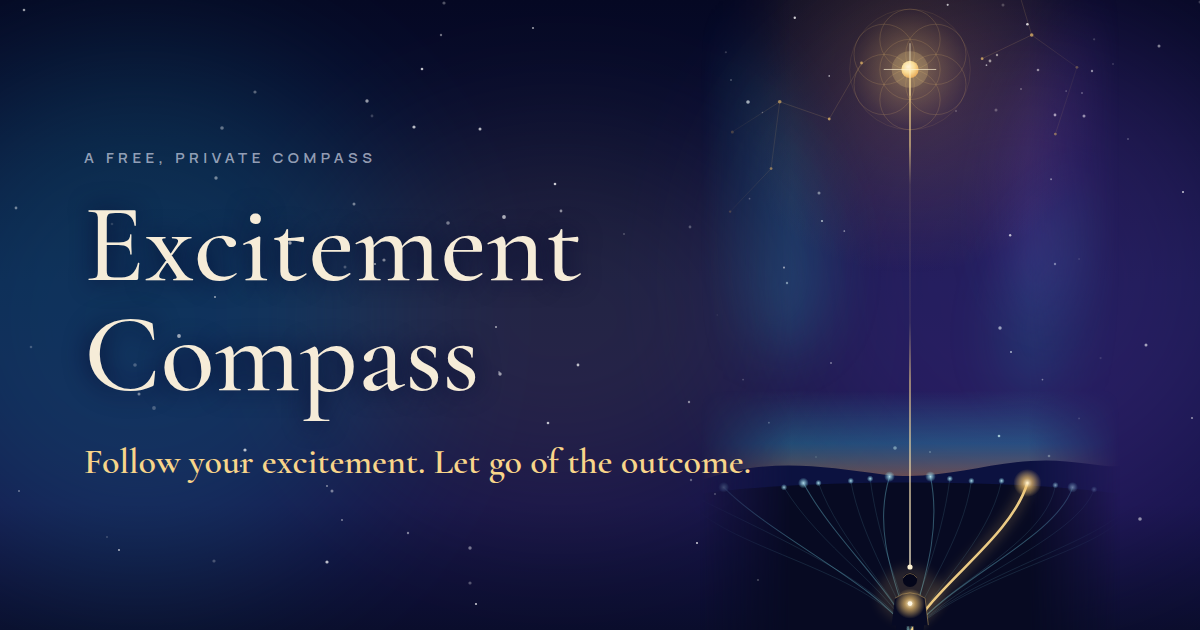
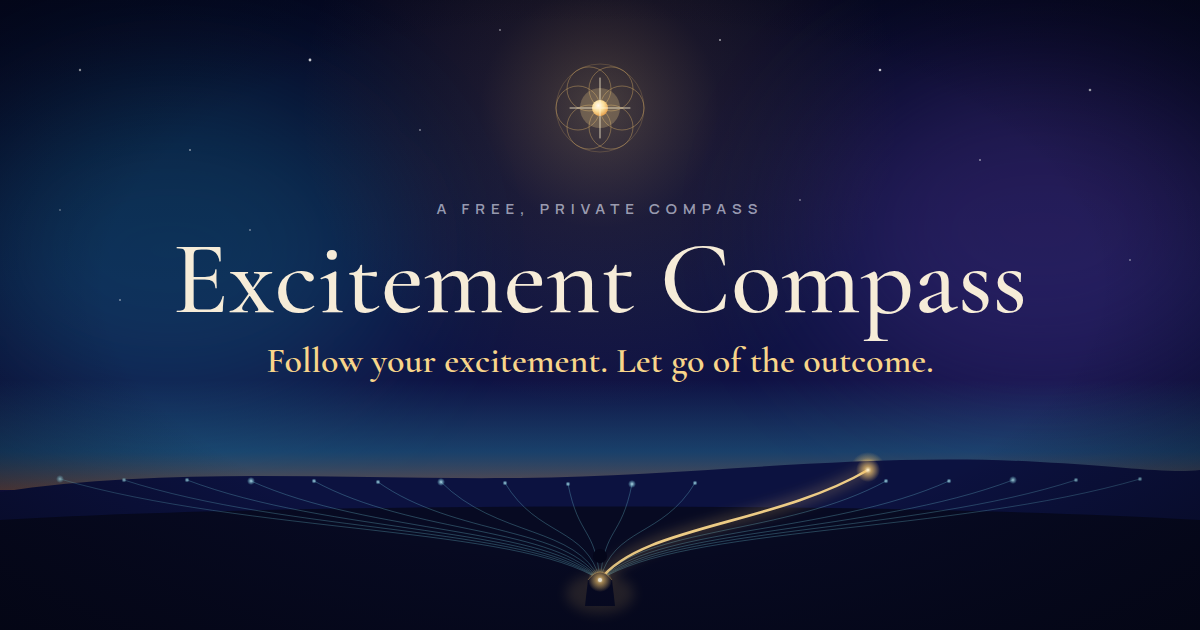
Share card: a calmer wide landscape with a centred title and a few stars
Claude-Session: https://claude.ai/code/session_01XJGaQokyjQUo9JppUVvYPk

diff --git a/share.html b/share.html
@@ -9,185 +9,84 @@
 @font-face { font-family: 'Cormorant Garamond'; font-weight: 600; src: url('fonts/cormorant-garamond-latin-600-normal.woff2') format('woff2'); }
 @font-face { font-family: 'Manrope'; font-weight: 600; src: url('fonts/manrope-latin-600-normal.woff2') format('woff2'); }
 html, body { margin: 0; background: #050823; }
-.card {
-  position: relative; width: 1200px; height: 630px; overflow: hidden;
-  background: linear-gradient(180deg, #050823 0%, #0b1240 45%, #141248 80%, #0a0d2c 100%);
-  color: #f6ecd8; font-family: 'Manrope', sans-serif;
-}
-.glow { position: absolute; border-radius: 50%; filter: blur(80px); }
-.glow--teal { left: -120px; top: 60px; width: 520px; height: 520px; background: #1fb5c9; opacity: 0.2; }
-.glow--violet { right: -80px; top: 20px; width: 520px; height: 520px; background: #6a3fb0; opacity: 0.28; }
-.glow--gold { left: 330px; top: 140px; width: 460px; height: 360px; background: #f3c46c; opacity: 0.1; }
-.stars { position: absolute; inset: 0; }
-.scene {
-  position: absolute; left: 700px; top: 0; width: 420px; height: 630px;
-  -webkit-mask-image: linear-gradient(90deg, transparent, #000 22%, #000 78%, transparent);
-  mask-image: linear-gradient(90deg, transparent, #000 22%, #000 78%, transparent);
-}
-.text { position: absolute; left: 84px; top: 0; bottom: 0; width: 640px; display: flex; flex-direction: column; justify-content: center; }
-.label { font-size: 15px; font-weight: 600; letter-spacing: 0.3em; text-transform: uppercase; color: rgba(236, 239, 255, 0.62); }
-h1 { margin: 22px 0 0; font-family: 'Cormorant Garamond', serif; font-weight: 500; font-size: 112px; line-height: 0.98; text-shadow: 0 0 24px #070b2e; }
-p { margin: 30px 0 0; font-family: 'Cormorant Garamond', serif; font-weight: 600; font-size: 36px; line-height: 1.2; color: #f8d58a; white-space: nowrap; }
+svg { display: block; }
+.title { font-family: 'Cormorant Garamond', serif; font-weight: 500; }
+.tag { font-family: 'Cormorant Garamond', serif; font-weight: 600; }
+.label { font-family: 'Manrope', sans-serif; font-weight: 600; }
 </style>
 </head>
 <body>
-<div class="card">
-  <div class="glow glow--teal"></div>
-  <div class="glow glow--violet"></div>
-  <div class="glow glow--gold"></div>
-  <svg class="stars" viewBox="0 0 1200 630" aria-hidden="true" id="stars"></svg>
-  <svg class="scene" viewBox="0 20 390 640" preserveAspectRatio="xMidYMid slice" aria-hidden="true">
-<defs>
-<radialGradient id="hs-halo" cx="195" cy="112" r="190" gradientUnits="userSpaceOnUse">
-<stop offset="0" stop-color="#f3c46c" stop-opacity="0.5"/>
-<stop offset="0.3" stop-color="#e29a45" stop-opacity="0.16"/>
-<stop offset="1" stop-color="#e29a45" stop-opacity="0"/>
-</radialGradient>
-<radialGradient id="hs-orb" cx="0.4" cy="0.35" r="0.7">
-<stop offset="0" stop-color="#fffaf0"/>
-<stop offset="0.5" stop-color="#fbdf9a"/>
-<stop offset="1" stop-color="#e29a45"/>
-</radialGradient>
-<radialGradient id="hs-dot" cx="0.5" cy="0.5" r="0.5">
-<stop offset="0" stop-color="#fff3d2" stop-opacity="1"/>
-<stop offset="0.35" stop-color="#f3c46c" stop-opacity="0.7"/>
-<stop offset="1" stop-color="#f3c46c" stop-opacity="0"/>
-</radialGradient>
-<radialGradient id="hs-cooldot" cx="0.5" cy="0.5" r="0.5">
-<stop offset="0" stop-color="#bfeaf5" stop-opacity="0.9"/>
-<stop offset="1" stop-color="#7fe0f0" stop-opacity="0"/>
-</radialGradient>
-<linearGradient id="hs-horizon" x1="0" y1="410" x2="0" y2="492" gradientUnits="userSpaceOnUse">
-<stop offset="0" stop-color="#2fc3d0" stop-opacity="0"/>
-<stop offset="0.6" stop-color="#2fc3d0" stop-opacity="0.3"/>
-<stop offset="1" stop-color="#e29a45" stop-opacity="0.4"/>
-</linearGradient>
-<linearGradient id="hs-thread" x1="0" y1="118" x2="0" y2="576" gradientUnits="userSpaceOnUse">
-<stop offset="0" stop-color="#f8d58a" stop-opacity="0.95"/>
-<stop offset="0.14" stop-color="#f8d58a" stop-opacity="0.9"/>
-<stop offset="0.22" stop-color="#f8d58a" stop-opacity="0.12"/>
-<stop offset="0.5" stop-color="#f8d58a" stop-opacity="0.12"/>
-<stop offset="0.62" stop-color="#f8d58a" stop-opacity="0.85"/>
-<stop offset="1" stop-color="#fff3d2" stop-opacity="1"/>
-</linearGradient>
-<linearGradient id="hs-floor" x1="0" y1="640" x2="0" y2="844" gradientUnits="userSpaceOnUse">
-<stop offset="0" stop-color="#05071a" stop-opacity="0"/>
-<stop offset="0.5" stop-color="#05071a" stop-opacity="0.75"/>
-<stop offset="1" stop-color="#05071a" stop-opacity="0.95"/>
-</linearGradient>
-<filter id="hs-soft" x="-50%" y="-50%" width="200%" height="200%"><feGaussianBlur stdDeviation="26"/></filter>
-<filter id="hs-glowblur" x="-50%" y="-50%" width="200%" height="200%"><feGaussianBlur stdDeviation="5"/></filter>
-</defs>
+<svg xmlns="http://www.w3.org/2000/svg" width="1200" height="630" viewBox="0 0 1200 630">
+  <defs>
+    <linearGradient id="sky" x1="0" y1="0" x2="0" y2="1">
+      <stop offset="0" stop-color="#050823"/><stop offset="0.45" stop-color="#0b1240"/><stop offset="0.8" stop-color="#141248"/><stop offset="1" stop-color="#0a0d2c"/>
+    </linearGradient>
+    <radialGradient id="halo"><stop offset="0" stop-color="#f3c46c" stop-opacity="0.5"/><stop offset="0.4" stop-color="#e29a45" stop-opacity="0.16"/><stop offset="1" stop-color="#e29a45" stop-opacity="0"/></radialGradient>
+    <radialGradient id="orb" cx="0.4" cy="0.35" r="0.7"><stop offset="0" stop-color="#fffaf0"/><stop offset="0.5" stop-color="#fbdf9a"/><stop offset="1" stop-color="#e29a45"/></radialGradient>
+    <radialGradient id="cool"><stop offset="0" stop-color="#bfeaf5" stop-opacity="0.9"/><stop offset="1" stop-color="#7fe0f0" stop-opacity="0"/></radialGradient>
+    <radialGradient id="sun"><stop offset="0" stop-color="#fff3d2" stop-opacity="1"/><stop offset="0.3" stop-color="#f3c46c" stop-opacity="0.7"/><stop offset="1" stop-color="#f3c46c" stop-opacity="0"/></radialGradient>
+    <linearGradient id="horizon" x1="0" y1="380" x2="0" y2="490" gradientUnits="userSpaceOnUse">
+      <stop offset="0" stop-color="#2fc3d0" stop-opacity="0"/><stop offset="0.65" stop-color="#2fc3d0" stop-opacity="0.26"/><stop offset="1" stop-color="#e29a45" stop-opacity="0.4"/>
+    </linearGradient>
+    <radialGradient id="vignette" cx="0.5" cy="0.45" r="0.75"><stop offset="0.55" stop-color="#02030c" stop-opacity="0"/><stop offset="1" stop-color="#02030c" stop-opacity="0.6"/></radialGradient>
+    <filter id="soft" x="-50%" y="-50%" width="200%" height="200%"><feGaussianBlur stdDeviation="70"/></filter>
+    <filter id="glow" x="-50%" y="-50%" width="200%" height="200%"><feGaussianBlur stdDeviation="6"/></filter>
+  </defs>
 
-<ellipse cx="38" cy="230" rx="70" ry="150" fill="#1fb5c9" opacity="0.2" filter="url(#hs-soft)" transform="rotate(-18 38 230)"/>
-<ellipse cx="356" cy="200" rx="64" ry="140" fill="#6a3fb0" opacity="0.26" filter="url(#hs-soft)" transform="rotate(16 356 200)"/>
-<ellipse cx="336" cy="320" rx="50" ry="100" fill="#1fb5c9" opacity="0.14" filter="url(#hs-soft)" transform="rotate(20 336 320)"/>
-<circle cx="195" cy="112" r="190" fill="url(#hs-halo)"/>
+  <rect width="1200" height="630" fill="url(#sky)"/>
+  <ellipse cx="170" cy="250" rx="230" ry="170" fill="#1fb5c9" opacity="0.2" filter="url(#soft)"/>
+  <ellipse cx="1040" cy="230" rx="230" ry="170" fill="#6a3fb0" opacity="0.28" filter="url(#soft)"/>
+  <circle cx="600" cy="108" r="300" fill="url(#halo)" opacity="0.55"/>
+  <g fill="#ffffff"><circle cx="80" cy="70" r="1.2" opacity="0.7"/><circle cx="190" cy="150" r="1" opacity="0.5"/><circle cx="310" cy="60" r="1.4" opacity="0.8"/><circle cx="420" cy="130" r="0.9" opacity="0.5"/><circle cx="250" cy="230" r="0.9" opacity="0.45"/><circle cx="120" cy="300" r="1" opacity="0.45"/><circle cx="880" cy="70" r="1.3" opacity="0.75"/><circle cx="980" cy="160" r="1" opacity="0.5"/><circle cx="1090" cy="90" r="1.3" opacity="0.7"/><circle cx="800" cy="200" r="0.9" opacity="0.45"/><circle cx="1130" cy="260" r="1" opacity="0.45"/><circle cx="720" cy="40" r="1" opacity="0.6"/><circle cx="500" cy="30" r="0.9" opacity="0.5"/><circle cx="60" cy="210" r="0.9" opacity="0.4"/></g>
 
-<g fill="#ffffff">
-<circle cx="24" cy="96" r="1" opacity="0.7"/><circle cx="58" cy="152" r="0.7" opacity="0.5"/><circle cx="88" cy="64" r="1.1" opacity="0.8"/>
-<circle cx="120" cy="118" r="0.8" opacity="0.6"/><circle cx="150" cy="44" r="0.9" opacity="0.7"/><circle cx="46" cy="232" r="0.8" opacity="0.5"/>
-<circle cx="78" cy="296" r="1" opacity="0.6"/><circle cx="16" cy="340" r="0.7" opacity="0.5"/><circle cx="134" cy="262" r="0.8" opacity="0.55"/>
-<circle cx="40" cy="400" r="0.8" opacity="0.5"/><circle cx="230" cy="52" r="1" opacity="0.7"/><circle cx="266" cy="108" r="0.8" opacity="0.6"/>
-<circle cx="304" cy="70" r="1.2" opacity="0.8"/><circle cx="340" cy="132" r="0.8" opacity="0.55"/><circle cx="366" cy="84" r="1" opacity="0.7"/>
-<circle cx="326" cy="214" r="0.9" opacity="0.6"/><circle cx="352" cy="288" r="0.7" opacity="0.5"/><circle cx="288" cy="266" r="1.1" opacity="0.7"/>
-<circle cx="372" cy="380" r="1" opacity="0.6"/><circle cx="318" cy="400" r="0.8" opacity="0.5"/><circle cx="108" cy="22" r="0.8" opacity="0.6"/>
-<circle cx="278" cy="22" r="0.9" opacity="0.6"/><circle cx="12" cy="44" r="0.7" opacity="0.5"/><circle cx="378" cy="30" r="0.8" opacity="0.5"/>
-<circle cx="64" cy="440" r="0.8" opacity="0.45"/><circle cx="352" cy="436" r="0.8" opacity="0.45"/>
-</g>
+  <!-- the star and the flower of life around it -->
+  <g fill="none" stroke="#f3c46c" stroke-width="0.9" stroke-opacity="0.4"><circle cx="622.0" cy="108.0" r="22"/><circle cx="611.0" cy="127.1" r="22"/><circle cx="589.0" cy="127.1" r="22"/><circle cx="578.0" cy="108.0" r="22"/><circle cx="589.0" cy="88.9" r="22"/><circle cx="611.0" cy="88.9" r="22"/><circle cx="600" cy="108" r="44" stroke-opacity="0.22"/></g>
+  <circle cx="600" cy="108" r="20" fill="#f8d58a" opacity="0.25"/>
+  <circle cx="600" cy="108" r="8" fill="url(#orb)"/>
+  <g stroke="#fff3d2" stroke-width="1" stroke-opacity="0.8" stroke-linecap="round"><line x1="600" y1="78" x2="600" y2="138"/><line x1="570" y1="108" x2="630" y2="108"/></g>
 
-<g fill="none" stroke="#f3c46c" stroke-width="0.5" stroke-opacity="0.28">
-<polyline points="30,170 74,142 120,158 150,106"/><polyline points="74,142 66,204 28,244"/>
-<polyline points="262,102 308,80 350,110 330,172"/><polyline points="308,80 296,40"/>
-</g>
-<g fill="#f3c46c" opacity="0.7">
-<circle cx="30" cy="170" r="1.4"/><circle cx="74" cy="142" r="1.7"/><circle cx="120" cy="158" r="1.3"/><circle cx="150" cy="106" r="1.3"/><circle cx="66" cy="204" r="1.3"/><circle cx="28" cy="244" r="1.1"/>
-<circle cx="262" cy="102" r="1.3"/><circle cx="308" cy="80" r="1.7"/><circle cx="350" cy="110" r="1.3"/><circle cx="330" cy="172" r="1.3"/><circle cx="296" cy="40" r="1.1"/>
-</g>
+  <!-- title -->
+  <text class="label" x="600" y="214" text-anchor="middle" font-size="15" letter-spacing="6" fill="#ecefff" fill-opacity="0.62">A FREE, PRIVATE COMPASS</text>
+  <text class="title" x="600" y="312" text-anchor="middle" font-size="104" fill="#f6ecd8">Excitement Compass</text>
+  <text class="tag" x="600" y="372" text-anchor="middle" font-size="36" fill="#f8d58a">Follow your excitement. Let go of the outcome.</text>
 
-<g fill="none" stroke="#f3c46c" stroke-width="0.6" stroke-opacity="0.26">
-<circle cx="195" cy="112" r="28"/><circle cx="195" cy="84" r="28"/><circle cx="219" cy="98" r="28"/><circle cx="219" cy="126" r="28"/>
-<circle cx="195" cy="140" r="28"/><circle cx="171" cy="126" r="28"/><circle cx="171" cy="98" r="28"/>
-<circle cx="195" cy="112" r="56" stroke-opacity="0.15"/>
-</g>
-<g class="scene-star"><circle cx="195" cy="112" r="8" fill="url(#hs-orb)"/>
-<circle cx="195" cy="112" r="17" fill="#f8d58a" opacity="0.22"/>
-<g stroke="#fff3d2" stroke-width="0.8" stroke-opacity="0.8" stroke-linecap="round">
-<line x1="195" y1="88" x2="195" y2="136"/><line x1="171" y1="112" x2="219" y2="112"/>
-</g></g>
+  <!-- the hill, the figure and the paths -->
+  <rect x="0" y="380" width="1200" height="110" fill="url(#horizon)"/>
+  <circle cx="868" cy="470" r="18" fill="url(#sun)"/>
+  <path d="M0 492 C170 466 340 480 520 478 C700 476 860 452 1040 462 C1120 466 1170 474 1200 470 L1200 630 L0 630Z" fill="#0c1240"/>
+  <path d="M0 520 C300 502 900 502 1200 520 L1200 630 L0 630Z" fill="#070a22"/>
+  <g fill="none" stroke-linecap="round">
+    <g stroke="#7fe0f0" stroke-width="0.9" stroke-opacity="0.3">
+    <path d="M600 580 C519 526 249 534 60 479"/>
+    <path d="M600 580 C529 526 290 534 124 480"/>
+    <path d="M600 580 C538 526 332 535 187 480"/>
+    <path d="M600 580 C548 526 373 536 251 481"/>
+    <path d="M600 580 C557 526 414 536 314 481"/>
+    <path d="M600 580 C567 526 455 537 378 482"/>
+    <path d="M600 580 C576 526 497 538 441 482"/>
+    <path d="M600 580 C586 526 538 538 505 483"/>
+    <path d="M600 580 C595 526 579 539 568 484"/>
+    <path d="M600 580 C605 526 621 539 632 484"/>
+    <path d="M600 580 C614 526 662 538 695 483"/>
+    <path d="M600 580 C643 526 786 536 886 481"/>
+    <path d="M600 580 C652 526 827 536 949 481"/>
+    <path d="M600 580 C662 526 868 535 1013 480"/>
+    <path d="M600 580 C671 526 910 534 1076 480"/>
+    <path d="M600 580 C681 526 951 534 1140 479"/>
+    </g>
+    <path d="M600 580 C640 526 774 525 868 470" stroke="#f3c46c" stroke-width="12" stroke-opacity="0.2" filter="url(#glow)"/>
+    <path d="M600 580 C640 526 774 525 868 470" stroke="#f8d58a" stroke-width="2.6" stroke-opacity="0.95"/>
+  </g>
+  <circle cx="60" cy="479" r="4" fill="url(#cool)"/><circle cx="124" cy="480" r="2.6" fill="url(#cool)"/><circle cx="187" cy="480" r="2.6" fill="url(#cool)"/><circle cx="251" cy="481" r="4" fill="url(#cool)"/><circle cx="314" cy="481" r="2.6" fill="url(#cool)"/><circle cx="378" cy="482" r="2.6" fill="url(#cool)"/><circle cx="441" cy="482" r="4" fill="url(#cool)"/><circle cx="505" cy="483" r="2.6" fill="url(#cool)"/><circle cx="568" cy="484" r="2.6" fill="url(#cool)"/><circle cx="632" cy="484" r="4" fill="url(#cool)"/><circle cx="695" cy="483" r="2.6" fill="url(#cool)"/><circle cx="886" cy="481" r="2.6" fill="url(#cool)"/><circle cx="949" cy="481" r="2.6" fill="url(#cool)"/><circle cx="1013" cy="480" r="4" fill="url(#cool)"/><circle cx="1076" cy="480" r="2.6" fill="url(#cool)"/><circle cx="1140" cy="479" r="2.6" fill="url(#cool)"/>
+  <circle cx="868" cy="470" r="12" fill="url(#sun)"/>
+  <g transform="translate(0,-16)"><ellipse cx="600" cy="610" rx="34" ry="20" fill="#f3c46c" opacity="0.14" filter="url(#glow)"/>
+  <circle cx="600" cy="572" r="7" fill="#04061a"/>
+  <path d="M588 596 Q600 580 612 596 L615 622 L585 622Z" fill="#070a24"/>
+  <path d="M588 596 Q600 580 612 596" stroke="#f3c46c" stroke-opacity="0.5" stroke-width="0.8" fill="none"/>
+  <circle cx="600" cy="596" r="12" fill="url(#sun)"/>
+  <circle cx="600" cy="596" r="2" fill="#fff8e6"/></g>
 
-<rect x="0" y="410" width="390" height="90" fill="url(#hs-horizon)"/>
-<path d="M0 494 C60 472 110 480 170 488 C230 496 280 470 340 476 C365 478 380 482 390 480 L390 844 L0 844Z" fill="#0c1240"/>
-<path d="M0 506 C100 492 290 492 390 506 L390 844 L0 844Z" fill="#070a22"/>
-
-<g fill="none" stroke-linecap="round">
-<g stroke="#7fe0f0" stroke-width="0.6" stroke-opacity="0.2">
-<path d="M195 636 C160 580 40 560 -4 520"/>
-<path d="M195 636 C250 580 380 558 394 524"/>
-<path d="M195 636 C168 586 56 540 -10 506"/>
-<path d="M195 636 C176 594 112 556 78 500"/>
-<path d="M195 636 C182 598 130 552 110 496"/>
-<path d="M195 636 C187 602 150 550 140 494"/>
-<path d="M195 636 C192 606 166 556 158 492"/>
-<path d="M195 636 C198 606 224 556 232 492"/>
-<path d="M195 636 C203 602 244 552 252 494"/>
-<path d="M195 636 C212 598 268 552 280 494"/>
-<path d="M195 636 C224 592 322 552 330 498"/>
-<path d="M195 636 C238 586 350 548 366 502"/>
-<path d="M195 636 C244 580 396 546 400 510"/>
-</g>
-<g stroke="#7fe0f0" stroke-width="1" stroke-opacity="0.34">
-<path d="M195 636 C165 590 70 548 22 500"/>
-<path d="M195 636 C180 596 124 548 96 496"/>
-<path d="M195 636 C189 604 158 548 176 490"/>
-<path d="M195 636 C201 604 226 548 214 490"/>
-<path d="M195 636 C232 586 330 548 346 500"/>
-</g>
-<path class="scene-gold-glow" d="M195 636 C218 590 288 548 304 496" stroke="#f3c46c" stroke-width="11" stroke-opacity="0.16" filter="url(#hs-glowblur)"/>
-<path class="scene-gold" d="M195 636 C218 590 288 548 304 496" stroke="#f8d58a" stroke-width="2.4" stroke-opacity="0.95"/>
-</g>
-<g>
-<circle cx="22" cy="500" r="5" fill="url(#hs-cooldot)"/><circle cx="96" cy="496" r="5" fill="url(#hs-cooldot)"/><circle cx="176" cy="490" r="5" fill="url(#hs-cooldot)"/>
-<circle cx="214" cy="490" r="5" fill="url(#hs-cooldot)"/><circle cx="346" cy="500" r="5" fill="url(#hs-cooldot)"/>
-<circle cx="78" cy="500" r="3" fill="url(#hs-cooldot)"/><circle cx="110" cy="496" r="3" fill="url(#hs-cooldot)"/><circle cx="140" cy="494" r="3" fill="url(#hs-cooldot)"/>
-<circle cx="158" cy="492" r="3" fill="url(#hs-cooldot)"/><circle cx="232" cy="492" r="3" fill="url(#hs-cooldot)"/><circle cx="252" cy="494" r="3" fill="url(#hs-cooldot)"/>
-<circle cx="280" cy="494" r="3" fill="url(#hs-cooldot)"/><circle cx="330" cy="498" r="3" fill="url(#hs-cooldot)"/><circle cx="366" cy="502" r="3" fill="url(#hs-cooldot)"/>
-<circle cx="304" cy="496" r="13" fill="url(#hs-dot)"/>
-</g>
-
-<path d="M195 118 L195 574" stroke="url(#hs-thread)" stroke-width="1.2" fill="none"/>
-
-<ellipse cx="195" cy="600" rx="30" ry="26" fill="#f3c46c" opacity="0.14" filter="url(#hs-glowblur)"/>
-<circle cx="195" cy="586" r="6.6" fill="#04061a"/>
-<path d="M188.6 584 Q195 576 201.4 584" stroke="#f3c46c" stroke-width="0.6" stroke-opacity="0.6" fill="none"/>
-<path d="M181 603 Q195 593 209 603 L212 628 L208 628 L207 644 L199 644 L198 629 L192 629 L191 644 L183 644 L182 628 L178 628Z" fill="#070a24"/>
-<path d="M181 603 Q195 593 209 603 L212 628" stroke="#f3c46c" stroke-width="0.7" stroke-opacity="0.55" fill="none"/>
-<circle cx="195" cy="608" r="14" fill="url(#hs-dot)"/>
-<circle cx="195" cy="608" r="2.2" fill="#fff8e6"/>
-<circle cx="195" cy="574" r="2.4" fill="#fff3d2"/>
-
-<rect x="0" y="640" width="390" height="204" fill="url(#hs-floor)"/>
+  <rect width="1200" height="630" fill="url(#vignette)"/>
 </svg>
-  <div class="text">
-    <div class="label">A free, private compass</div>
-    <h1>Excitement<br>Compass</h1>
-    <p>Follow your excitement. Let go of the outcome.</p>
-  </div>
-</div>
-<script>
-// A fixed scatter of stars (seeded, so the picture is the same every time).
-let a = 12345;
-const rand = () => { a = (a * 1664525 + 1013904223) >>> 0; return a / 4294967296; };
-const s = document.getElementById('stars');
-for (let i = 0; i < 90; i++) {
-  const c = document.createElementNS('http://www.w3.org/2000/svg', 'circle');
-  c.setAttribute('cx', (rand() * 1200).toFixed(0));
-  c.setAttribute('cy', (rand() * 630).toFixed(0));
-  c.setAttribute('r', (0.6 + rand() * 1.3).toFixed(1));
-  c.setAttribute('fill', '#fff');
-  c.setAttribute('opacity', (0.2 + rand() * 0.6).toFixed(2));
-  s.append(c);
-}
-</script>
 </body>
 </html>

diff --git a/index.html b/index.html
@@ -19,14 +19,14 @@
   <meta property="og:title" content="Excitement Compass">
   <meta property="og:description" content="A free, private compass for following your excitement. No account, nothing leaves your device.">
   <meta property="og:url" content="https://kostas564.github.io/excitement-compass/">
-  <meta property="og:image" content="https://kostas564.github.io/excitement-compass/share.png">
+  <meta property="og:image" content="https://kostas564.github.io/excitement-compass/share.png?v=2">
   <meta property="og:image:width" content="1200">
   <meta property="og:image:height" content="630">
   <meta property="og:image:alt" content="A glowing star over a small figure on a night hill, with the words Excitement Compass">
   <meta name="twitter:card" content="summary_large_image">
   <meta name="twitter:title" content="Excitement Compass">
   <meta name="twitter:description" content="A free, private compass for following your excitement. No account, nothing leaves your device.">
-  <meta name="twitter:image" content="https://kostas564.github.io/excitement-compass/share.png">
+  <meta name="twitter:image" content="https://kostas564.github.io/excitement-compass/share.png?v=2">
 
   <!-- Apply the saved theme (dark unless chosen otherwise) before the page draws, to avoid a flash. -->
   <script>
@@ -47,7 +47,7 @@
       document.documentElement.style.setProperty('--app-height', h + 'px');
     })();
   </script>
-  <link rel="stylesheet" href="styles.css?v=57">
+  <link rel="stylesheet" href="styles.css?v=58">
 </head>
 <body>
   <div class="sky" id="sky" aria-hidden="true">
@@ -560,9 +560,9 @@
     </div>
   </dialog>
 
-  <script src="strings.js?v=57"></script>
-  <script src="storage.js?v=57"></script>
-  <script src="sky.js?v=57"></script>
-  <script src="app.js?v=57"></script>
+  <script src="strings.js?v=58"></script>
+  <script src="storage.js?v=58"></script>
+  <script src="sky.js?v=58"></script>
+  <script src="app.js?v=58"></script>
 </body>
 </html>

diff --git a/sw.js b/sw.js
@@ -3,7 +3,7 @@
 // Bump VERSION together with the ?v= numbers in index.html on every release.
 // The new worker then caches the new files and removes the old cache.
 
-const VERSION = '57';
+const VERSION = '58';
 const CACHE = `excitement-compass-v${VERSION}`;
 const FILES = [
   './',
